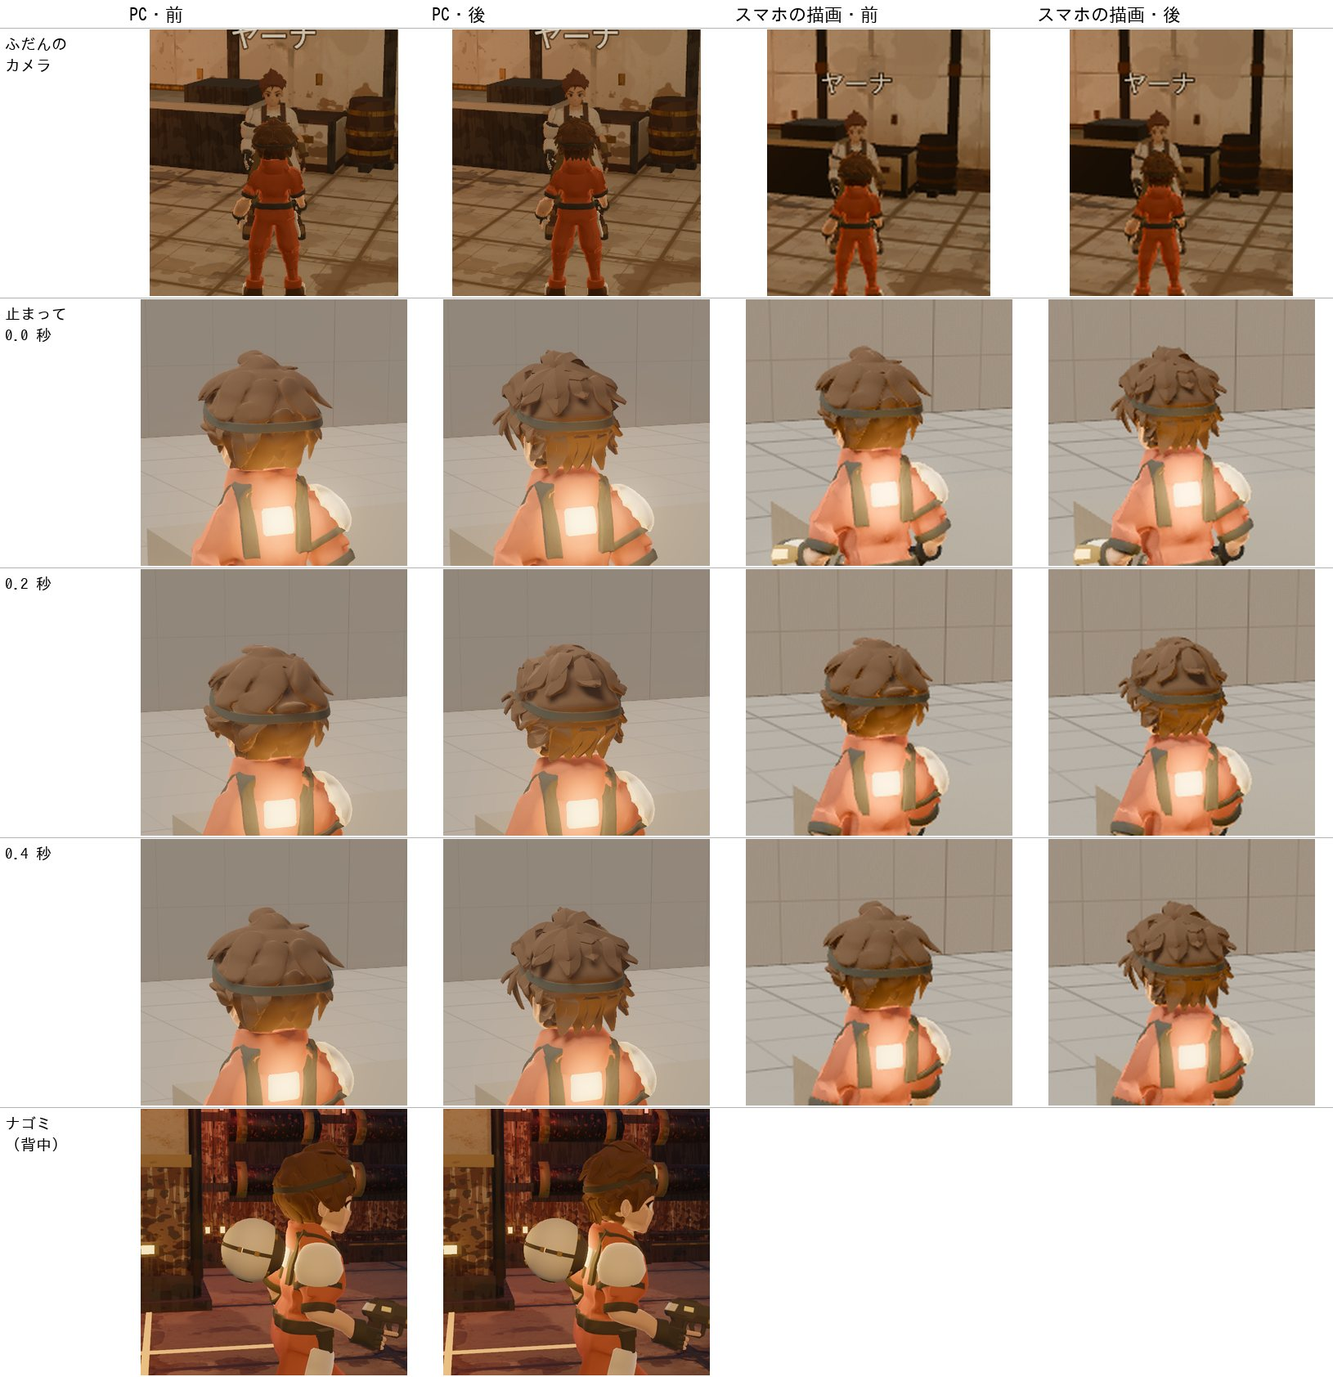
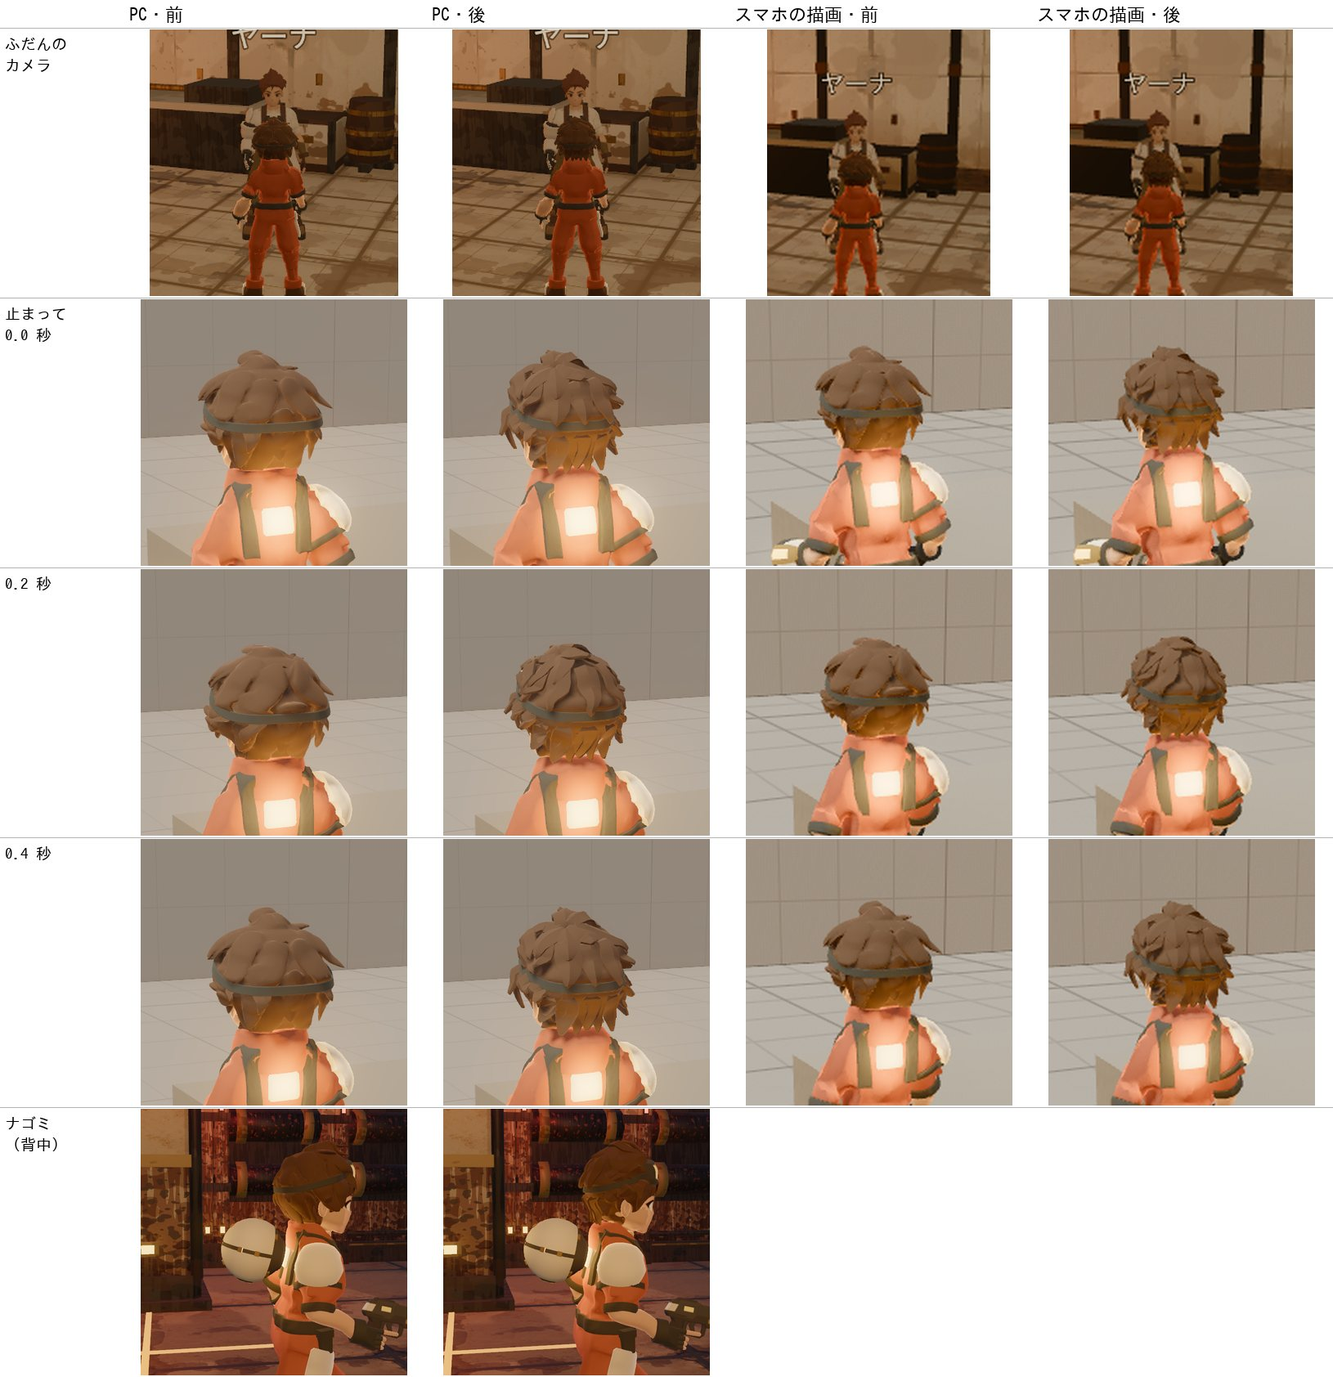
Docs: Haru hair review fixes (section 9.8), corrected frame movement, alignment values, remaining items
- 9.2: the 0.08 mm figure covers only the arm and leg frames; list the collar, shoulder strap,
  left hand and goggle strap movement.
- 9.3: drawing alignment values and the committed preview/silhouette tools.
- 9.7: items updated after the fixes; new rows for the cheek shadow, the rounder three-quarter
  outline and the blackout night on the phone renderer.
- 9.8: what each review finding changed, numbers, tests and the re-shot sheets.
- Godot talk/play camera sheets re-shot on the final model.

Claude-Session: https://claude.ai/code/session_01Bcwddx3BN325aEnzr3cFiU

diff --git a/docs/art_orders/W1_ハル再構築の結果.md b/docs/art_orders/W1_ハル再構築の結果.md
@@ -583,7 +583,7 @@ llvmpipe）なので、描いた 1 こまは約 1 秒かかり、そのばらつ
 | 帽子を締める | 後ろ・横（y 0 → 0.05 で 0 → 1.4cm）と頭頂（z 1.50 → 1.54 で 1.2cm）だけ帽子を内へ締める（`hair.CAP.inset_back`、新しい設定。無い人物は今までどおり）。前（y < 0：額・ゴーグル・前髪・こめかみ・顔の窓）は締めない＝ゴーグルの枠・レンズ・前髪の殻は前と同じ形。頭の部品の塗り（`hair.part_fields_at`）も締めた帽子で決める | `hair.py` の `cap_inset_field`、`chars/haru.json` |
 | ヒモの下へ | ゴーグルのヒモ（部品）の高さを通る房の点は、ヒモの内の面まで押し込む（`strap_push` を房の部品にも。部品の表で `strap_push=True`）。ヒモは締めた帽子に沿うので、髪からの浮きが 21mm → 6mm（90 パーセンタイル） | `costume.py` の `build_all` |
 | 揺れ | 房の部品の頂点も髪の頂点にして、前と同じ決まり（外へ出た長さ × 髪でない面からの距離 × まとまりの割合）で揺れの骨の重みを付ける。部品の頂点の色は部品の材質の色見本を UV で引く（`part_vertex_colors`）。骨の名前・本数（髪 7・ポーチ 2）、ゲームの揺れ方（`haru_sway.gd`）は同じ | `ai_character.py` の `add_sway` |
-| 骨の位置 | 帽子を変えると体の間引きが変わり、測った上腕の前後が 7mm 動いた（銃を握る手・動作が少し変わる）。2026-10 の版の関節の位置を `joints.FIXED`（新しい設定）で固定。銃・光刃は前と同じ位置（頂点の差 0）、外装フレームは 0.08mm 以内 | `joints.py`、`chars/haru.json` |
+| 骨の位置 | 帽子を変えると体の間引きが変わり、測った上腕の前後が 7mm 動いた（銃を握る手・動作が少し変わる）。2026-10 の版の関節の位置を `joints.FIXED`（新しい設定）で固定。銃・光刃は前と同じ位置（頂点の差 0）、腕と脚の外装フレーム（Frame_arm・Frame_legs）は 0.08mm 以内。体の面に沿って作る部品のうち首の後ろ・手にかかるものは、帽子のえり足（z 1.20〜1.24）と体の間引きが変わった分だけ動いた（レビューで測った値）：フードのえりの後ろの上の縁が首の方へ最大 37.9mm、Frame_core の肩ひもの首の後ろが最大 10.2mm、左手の部品が最大 5.4mm、背中の板のまわりは 0.47mm 以内、ゴーグルのヒモは中央値 24mm（ねらいどおり）。えりの縁・肩ひもの上の端に、すき間や突き抜けが無いことは 9.8 のふだんのカメラの近写で見た | `joints.py`、`chars/haru.json` |
 | 確かめの道具 | `--talk_cam_shots` は第 1 章のオープニング（黒帯の場面）を飛ばしておらず、部屋を移っても会話のカメラが寄らなかった（7 件の失敗）。`_talk_skip` で黒帯の場面も長押しのスキップと同じに飛ばす。確認ページの格子に真上（`--el top`、極角 6 度）を足せるようにした（既定の格子は同じ） | `scripts/debug/demo.gd`、`audit_viewer.mjs` |
 
 ### 9.3 絵の合わせ方
@@ -593,6 +593,21 @@ llvmpipe）なので、描いた 1 こまは約 1 秒かかり、そのばらつ
 この縮尺で絵の上に 1cm の格子を引き、房の根・先の位置を世界の座標で読んだ。房の試しは、帽子の場（形の段から作り置き）と房の部品だけを Cycles で
 描く道具で 1 回約 40 秒（`build/` の作業の道具。房の直しは骨付けの段だけで約 40 秒）。比べの画像も同じ縮尺で絵の外形を重ねる。
 真横の後ろの縁は、高さ 1cm ごとに絵とモデルの一番後ろの点を表にして比べた（どの房が外形を作っているかも出す）。
+
+合わせの値（`tools/blender/recon/hair_tools/align.py` の `T`。画素/m、絵の左の端の世界の値、絵の上の端の世界の z。真上の絵は左の端の x と上の端の y）：
+
+| 絵 | 画素/m | 左の端 | 上の端 |
+|----|-------|-------|-------|
+| `haru_head_side_right.png`（真横。横は y） | 4,425 | y −0.24278 | z 1.57904 |
+| `haru_head_back.png`（背面。横は x） | 4,425 | x −0.23096 | z 1.57904 |
+| `haru_head_front_right45.png`（右前斜め） | 4,325 | −0.23604 | z 1.5859 |
+| `haru_head_top.png`（真上） | 4,388 | x −0.23336 | y 0.2587 |
+| `haru_3d_front.png`（全身の正面） | 1,161.29 | x −0.88997 | z 1.65678 |
+
+道具（レビューの後に `tools/blender/recon/hair_tools/` へ移した。絵は形の段が取り出した `build/recon/src/` から読む）：
+- `hair_preview.py`：帽子の場（`--recap` で作り直し、`--cap` の npz に作り置き）＋房の部品＋ヒモだけを Cycles の正射影で描く（1 回 20〜40 秒）。
+  `--width`・`--cen` で近写。例 `RECON_CHAR=haru .venv-blender/bin/python tools/blender/recon/hair_tools/hair_preview.py --out build/prev/p1 --views side_right,back,top`
+- `compare.py`：絵（同じ縮尺）と、描いた画像に絵の外形（赤）を重ねた表。`solidity.py`：外形の凸さ（面積 ÷ 凸包）。`edgeprof.py`：真横の後ろの縁の表（高さ 1cm ごと）
 
 ### 9.4 数字
 外形は頭の拡大の絵と同じ向き・縮尺の正投影（Cycles、肩から上）で比べた。
@@ -624,23 +639,68 @@ llvmpipe）なので、描いた 1 こまは約 1 秒かかり、そのばらつ
 - 確認ページの格子（`audit_viewer.mjs`）：頭 8 方位 × 水平・上から・真上、顔の表（正面・±30・±90 度 × 水平・上から・下から・真上）。
   顔・目・眉・口・ゴーグル・前髪は前と同じ。
 
-### 9.6 画像（`docs/art_orders/haru_r_trial/`）
+### 9.6 画像（`docs/art_orders/haru_r_trial/`。9.8 のレビューの後に撮り直した。「前」は H1 より前の版、「後」は 9.8 の後）
 | 画像 | 内容 |
 |------|------|
 | `h1_hair_views.jpg` | 頭の拡大の絵（同じ向き・縮尺）・前・後・後に絵の外形（赤）：真横・背面・右前斜め・真上・正面（Cycles） |
 | `h1_side_edge.jpg` | 真横の外形：絵・前・後の影絵に絵の外形（赤）。肩から上 |
 | `h1_audit_head.jpg` | 確認ページ（ユーザーが見る画面）の頭の格子：8 方位の水平・上から・真上、前と後 |
-| `h1_face_check.jpg` | 確認ページの顔の表：正面・±30・±90 度、前と後（±90 度の耳たぶの下の茶の島は 9.7 の 6） |
+| `h1_face_check.jpg` | 確認ページの顔の表：正面・±30・±90 度 × 水平・下から、前と後（±90 度で耳たぶの下に三日月が無いこと） |
 | `h1_talk_cam.jpg` | Godot の会話のカメラ（ヤーナ・バートン・ニコ）：PC とスマホの描画、前と後 |
 | `h1_play_cam.jpg` | Godot のふだんのカメラ（後ろから）と、走って止まるときの髪の揺れ（後ろ斜め上から、止めてから 0.2 秒ごと）、ナゴミが付いた所 |
+| `h1_review_fix.jpg` | 9.8 のレビューの後の Cycles の近写（H1 の版と比べる）：背面・後ろ上（帽子の帯）・右後ろ・真横・耳の下・ヒモの左右 |
 
 ### 9.7 残り
 | # | 何が | 今 | 次にすること |
 |---|------|----|------------|
-| 1 | 真横の外形の凸さ | 大きさ・位置は絵に近づいた（差の平均 2.0 → 1.1cm）が、外形はなめらかな弧のまま（凸さ 0.969、絵 0.928）。絵の後ろの縁は葉 3 段（先 z 1.48・1.41・1.355）とその間の 2cm のくぼみ。モデルは z 1.43〜1.47 で絵より 1.5〜3.3cm 太く、ヒモのすぐ下の段（z 1.355）が無い。ヒモの下に房を 1 本足す試しは、ヒモの帯の中でふくらみ、ヒモの下に薄い切れ端が出たので外した | 後ろの上の帽子をもう 0.5〜1cm 締める（形の段から、約 30 分）、後ろの房を 3 段の高さにそろえ、段の間を帽子の面まで下げる |
-| 2 | 房の数と大きさ | 41 本の葉が重なり、横（ヒモの上）・真上は絵より細かくざわついて見える。絵は大きな葉が少ない。後ろを上から見ると、上の段の葉の先とヒモの間に帽子のなめらかな面が帯のように見える（絵は葉がヒモにかかる） | 横・頭頂の葉を減らして幅を 1.3 倍に。後ろの上の段の葉をヒモまで伸ばす |
+| 1 | 真横の外形の凸さ | 9.8 で後ろの上の帽子をさらに 0.7cm 締め、上の段の葉をヒモまで伸ばした。後ろの縁と絵の差の平均は 1.1 → 1.0cm になったが、外形はなめらかな弧のまま（凸さ 0.969、絵 0.928）。絵の後ろの縁は葉 3 段（先 z 1.48・1.41・1.355）とその間の 2cm のくぼみ。モデルは z 1.44〜1.46 でまだ絵より 1〜2.6cm 太い（上の段の葉の根の辺り） | 後ろの房を 3 段の高さにそろえ、段の間（z 1.46 の辺り）を帽子の面まで下げる。つむじから後ろの葉の先を外へ立てる。房の表の試し（`hair_tools/hair_preview.py`）を何回か回す作業 |
+| 2 | 房の数と大きさ | 9.8 で 41 → 37 本（ほおの横・耳の後ろではねる 2 枚目を減らし、耳の後ろ・耳の上の房を広く）、後ろの上の段の葉はヒモまで届いた（帽子の帯は消えた）。横（ヒモの上）・真上の葉はまだ絵より細かく、真上から見た風車の回りが弱い | 横・頭頂の隣り合う葉をまとめて幅を 1.3 倍に、面を 1〜2 枚の平らな面に。頭頂の葉をもっと回す |
 | 3 | 真上の後ろの葉 | 絵の真上の 12 時の葉はもっと後ろへ長い。真上の絵は前後が真横の絵より約 3cm 長く、真横に合わせた | 絵どうしが合わないので、このままでよいか判断が要る |
 | 4 | 正面の頭頂 | 絵は頭頂に高く立つ房がある。モデルの頭頂は低く平ら（頭頂の房を 1.6cm 立てる試しは、真横の外形が絵から離れたので外した） | 正面と真横で立つ房の位置を決め直す |
-| 5 | えり足の V | 揺れても付いたナゴミの殻から 2cm を保つため、真ん中の先は z 1.23 まで。V は 3cm（絵は 5〜6cm） | 外の列の先を上げて V を深くする |
-| 6 | 耳たぶの下 | 帽子の横を締めた分、耳のまわりの帽子の溝（耳から 5mm 離して削る）が頭の肌まで届き、耳たぶの下に茶の小さな島と肌の細い三日月が残る。横・会話のカメラの近さで耳飾りのように見える。耳たぶより下を肌に塗る決まり（範囲の箱）を試したが、箱の縁の直線とあごの近くの暗い切れ込みが残ったので外した | 形の段で、耳のまわり（耳の楕円体から 3〜4cm）だけ帽子を締めない（`hair.cap_inset_field` に耳の近くで 0 へ渡す重み）。後ろのえり足は締めたまま（えり足の房が帽子の面に載るので、ゆるめるとナゴミの殻へ寄る）。形・塗りの段から約 30 分＋確かめ |
+| 5 | えり足の V | 揺れても付いたナゴミの殻から 2cm を保つため、真ん中の先は z 1.23 まで。V は 3cm（絵は 5〜6cm）。揺れの最中のいちばん近い距離は 9.8 の直しのあと 0.1552 m（下限 0.1445 m、余裕 10.7mm） | 外の列の先を上げて V を深くする（真ん中を下げるならえり足の揺れの重みの上限も下げる） |
+| 6 | 耳たぶの下 | 9.8 で直した（耳のまわりは帽子を締めない）。耳たぶの下・後ろは H1 の前と同じく髪が首まで続き、肌の三日月と茶の島は無い（`h1_review_fix.jpg`・`h1_face_check.jpg` の ±90 度）。最初の範囲（耳の楕円体の半径 +0.8cm、渡し 0.6）では耳たぶの下が締まったままで三日月が残ったので、+2cm・渡し 1.0 に広げた | — |
 | 7 | H3 | 右肩の板のふくらみ・膝の蝶番のにじみ・襟の上の縁のまだら | 未着手（この回は H1 だけ） |
+| 8 | ほおにかかる髪の影 | 横の房の影が日の当たる側のほお・こめかみの肌を覆う割合（ゲームの日の向き、`build/` のレビューの道具で数えた）：H1 の前 40% → H1 56% → 9.8 の後 58%。房を減らしても下がらない（影を作っているのは横の上の段とこめかみの房の根） | 横の房を影を落とさない別の面にするか、顔の材質の影の強さを下げる（ゲームの側の決まり。判断が要る） |
+| 9 | 右前斜めの外形 | 9.8 でほおの横の房をこめかみの房にまとめ、こめかみの房の根を枠の後ろへ移したので、右前斜めの外形が丸くなった（凸さ 0.934 → 0.957、絵 0.936）。横のほつれた細い先は減った | 横の上の段（ヒモの上）の葉を外へ立てて、斜めの外形にとがりを戻す（9.7 の 2 といっしょに） |
+| 10 | 停電の夜のスマホの描画 | 髪は暗い影絵になり、家・市場の暗い背景に溶ける（髪の材質は H1 で変えていない。H1 より前からのはず） | 停電の明かりの作業で、髪に弱い縁の光か、停電のときの明るさを足すかを決める（H1 の外） |
+
+### 9.8 レビューの指摘への直し（2026-11-02）
+見た目とコードの 2 人のレビューの指摘を受けて直した（形の段から作り直し）。房は 41 → 37 本。
+
+| 指摘 | 直したこと | ファイル |
+|------|-----------|---------|
+| 後ろから見ると、ヒモと上の段の葉の間に帽子のなめらかな帯が出て、お椀・ヘルメットに見えた（ふだんのカメラは後ろから） | 後ろの上の段の 3 枚（`ub_c`・`ub_l`・`ub_r`）をヒモまで伸ばし、幅 5.8〜6.6 → 7.4cm。先はヒモの上の縁にかかる（絵のとおり葉がヒモにかかる。ヒモの下へ押し込まない房の表 `HAIR_OVER_STRAP`）。先の浮きは 1.6cm（2.4cm では真横の z 1.36〜1.40 で絵より 1.3〜2cm 後ろへ出た） | `chars/haru_parts.py` |
+| 房がヒモをまたいでヒモの縁がぎざぎざ、ゴーグルの枠の角に太い塊 | 房の根は形の段の場（ゴーグルの枠も含む）の面に置くので、枠の角に根を置いた房（こめかみ・ほおの横・横の中の段）が枠の上の塊になっていた。こめかみの房の根を枠の後ろ・ヒモの下へ、横の中の段を枠の後ろ・ヒモの上（先もヒモの上で止める）へ移し、ほおの横の房はこめかみの房にまとめた。耳の前の房の根も枠から離した | 同上 |
+| 耳の後ろ・横の下に細い房が小枝のように広がる | 耳の後ろで外へはねる 2 枚（`flare`・`flare2`）を幅 7.2cm の 1 枚に、耳の後ろの房（`ear_back`）を 5.0 → 6.6cm、耳の上の房を 5.0 → 6.0cm に広げ、先を少し短く | 同上 |
+| 真横の外形がなめらかな弧で、絵の 3 段の葉にならない | 帽子の後ろの上（z 1.42〜1.49、y 0.06 → 0.12 で立ち上がる）をさらに 0.7cm 締めた（`hair.CAP.inset_back.upper`）。3 段にそろえるのは 9.7 の 1 に残す | `hair.py` の `cap_inset_field`、`chars/haru.json` |
+| 耳たぶの下・後ろの肌の三日月と茶の島（耳飾りに見えた） | 耳のまわりは帽子を締めない（`inset_back.ear`：耳の楕円体の半径に 2cm 足した楕円の距離 1 → 2 で、締める量を 0 → 1。最初の +0.8cm・1 → 1.6 では耳たぶの下が締まったままだった）。えり足の真ん中は締めたまま | 同上 |
+| 揺れると葉の房がつぶれ・ふくらみ・裏返る（重みが頂点ごとで、峰と内の面で 0.9 違った） | 房の部品の頂点に断面の番号を付け（`hair_locks` の `rings` → `costume.build_all` の `vring` → 頂点の属性 `lock_ring`）、`add_sway` で断面（6 角の輪）ごとに揺れの重みを輪の平均にそろえる。根の側の 3 輪は根のまわりの帽子の重みから輪の平均へ 0・1/3・2/3 で渡す（根が帽子の上ですべらない）。先の点は最後の輪に入れる（先の点だけ重みが違うと先の三角が裏返った）。属性は書き出しの前に消す | `ai_character.py` の `lock_ring_weights`、`costume.py`、`chars/haru_parts.py` |
+| ナゴミのテストの余裕が 1.5mm しかない | えり足のまとまりの骨（`hair.nape`）の重みの上限を 0.8 → 0.6 に（形は変えない。V を浅くしない）。揺れの最中のいちばん近い距離は 0.1457 → 0.1552 m（下限 0.1445 m）。 テストは揺れの最中のいちばん近い距離を毎回出す | `godot/tests/test_nagomi.gd` |
+| 小さな指摘 | SKILL の記録の行から、試して外した塗りの決まりを除いた。9.2 の外装フレームの値を直した。作業のフォルダの塗りの段（試して外した塗りの版が残っていた）は作り直した。骨付けの段の入力に `hull.npz`、補助に `hair.py` を足した（房の部品は形の段の場に沿う）。`HAIR_HANG` は名前の一致（`ub_l` が `ub_l2` を含んでいた）。ヒモの下へ押し込むかを房ごとに。道具と絵の合わせの値を 9.3 とリポジトリへ。ハルは形の段の房の当てはめ（使わない房 25 本、約 90 秒）を飛ばす（`hair.LOCK_FIT`） | `SKILL.md`、`build_char.py`、`hair.py`、`tools/blender/recon/hair_tools/` |
+
+テスト `test_hair_leaves_keep_shape_when_swinging`（新しい）：髪の揺れの骨 7 本をそれぞれの根のまわりに同時に 0.45 rad（26 度）、前後左右の 4 向きへ振り、
+部品の面のうち揺れる三角を、振る前と比べる（骨ごとの根の位置が違うので、まとまりの境の房では輪と輪の間が少しずれ、線形の重ねの限りで少し裏返りが残る）。
+直す前のモデルでは三角 24,296 のうち 315（1.3%）が裏返り、1cm より伸びた辺が 1,825（2.5%）。直した後は三角 25,920 のうち 112（0.43%）、伸びた辺 126（0.16%）。テストの下限は裏返り 0.8%・伸び 0.5%。
+
+数字（9.8 の後。外形は 9.4 と同じ正射影、`hair_tools/solidity.py`・`edgeprof.py`）：
+
+| | H1 の版 | 9.8 の後 | 絵 |
+|---|---|---|---|
+| 真横：後ろの縁と絵の差の平均（z 1.28〜1.50、1cm ごと） | 1.1cm | 1.0cm | — |
+| 外形の凸さ 真横・背面・右前斜め・真上 | 0.969・0.947・0.934・0.927 | 0.969・0.950・0.956・0.930 | 0.928・0.923・0.936・0.939 |
+| 房の部品 | 41 本 | 37 本 | — |
+| 体（haru のメッシュ）の三角形 | 63,134 | 62,418 | — |
+| 揺れ：葉の裏返り・1cm より伸びた辺（0.45 rad、4 向き） | 1.3%・2.5% | 0.43%・0.16% | — |
+| 揺れの最中のナゴミの殻の中心までのいちばん近い距離 | 0.1457 m | 0.1552 m | 下限 0.1445 m |
+| ゴーグルのヒモの髪からの浮き（90 パーセンタイル） | 6.1mm | 6.1mm | — |
+
+材質 6・描く面 11・骨 29・動作 14・ノード 37 の名前、外装フレームの 3 群、顔の画像は同じ（`glbdiff`）。銃・光刃・腕と脚の外装フレームの頂点の差は 0。
+
+確かめたこと：
+- テスト：`tools/godot.sh test` でテスト 238 本、確認 5,280 件、失敗 0 件（209.9 秒、終わりに ERROR の行は無い）。
+- 第 1 章の通し（`--ch1_full`）：見本の完了（失敗 0 件）、ERROR の行は無い（ゲーム内 2 分 31 秒・11,492 刻み）。
+- 画像を撮り直した：`h1_review_fix.jpg`（新しい。Cycles の近写：背面・後ろ上・右後ろ・真横・耳の下・ヒモ、H1 の版と 9.8 の後）、
+  `h1_hair_views.jpg`・`h1_side_edge.jpg`・`h1_audit_head.jpg`・`h1_face_check.jpg`（「後」は 9.8 の後）、
+  `h1_talk_cam.jpg`・`h1_play_cam.jpg`（Godot、「後」は 9.8 の後。ナゴミが付いた所の 1 こまだけは、耳のまわりの帽子を直す 1 つ前の版（違いは耳のまわりの帽子だけ））。
+- 首の後ろ（Cycles の近写、ふだんのカメラ）：フードのえりの後ろの上の縁・肩ひもの上の端に、すき間・突き抜けは無い。
+
